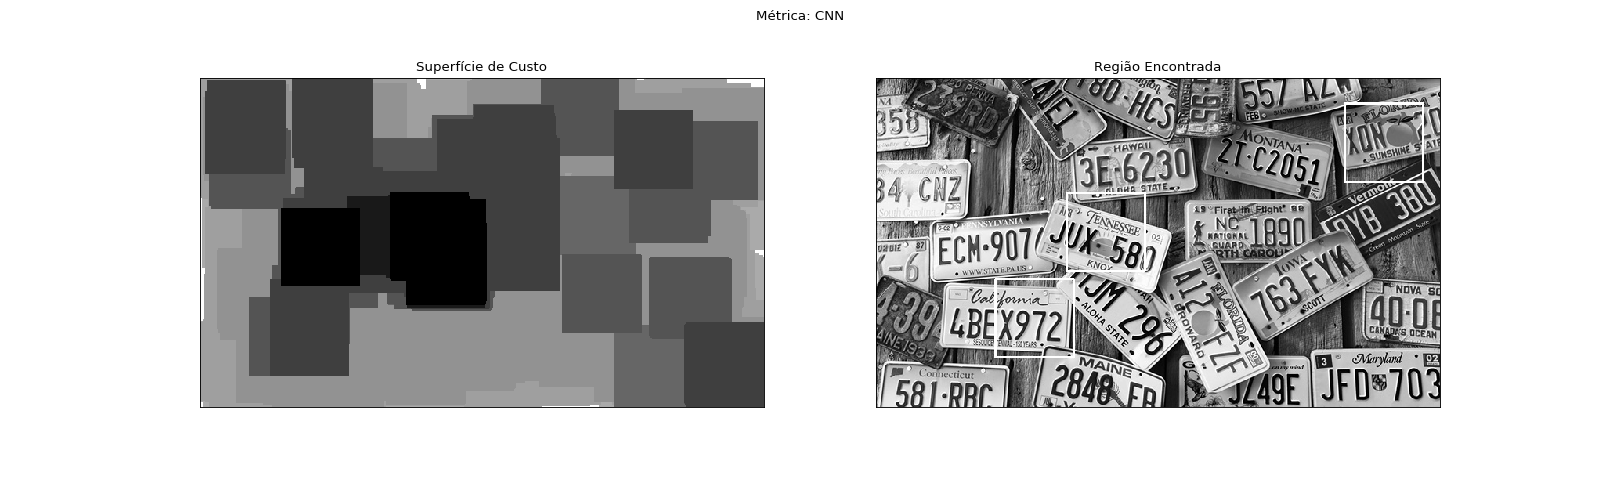
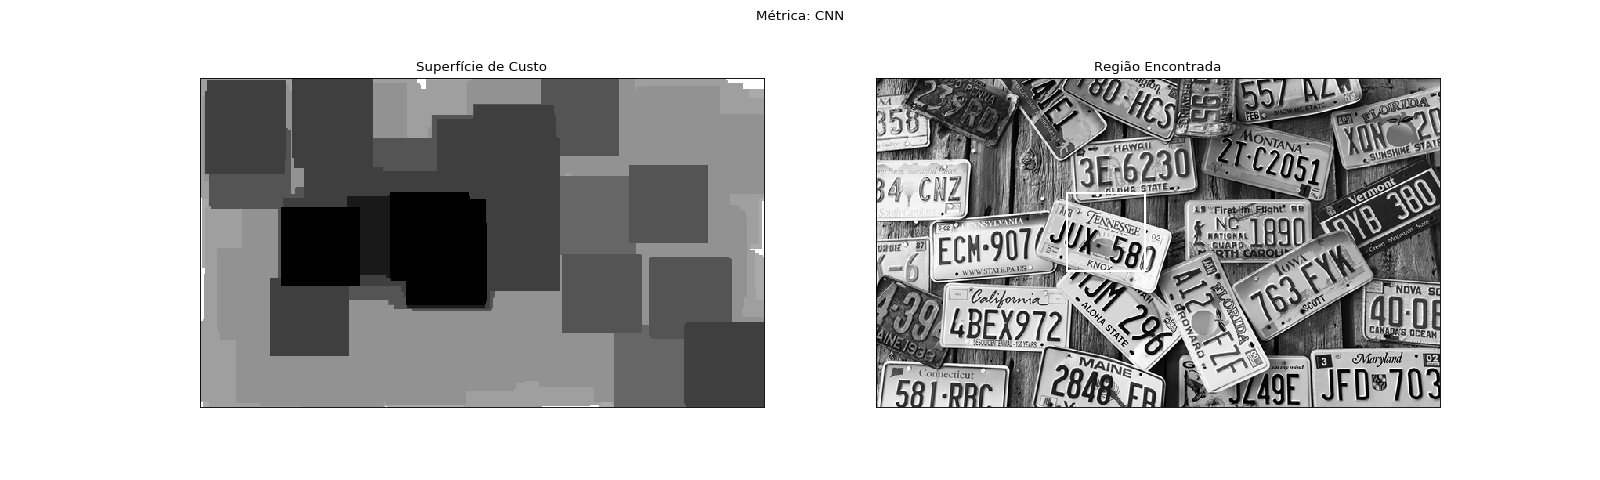
finaliza atividade 1

diff --git a/ap1/rotate.py b/ap1/rotate.py
@@ -1,0 +1,59 @@
+#!/usr/bin/env python3
+# -*- coding: utf-8 -*-
+"""
+Created on Sun Apr  3 09:11:37 2022
+
+@author: jose
+"""
+
+import numpy as np
+import math
+import cv2
+from matplotlib import pyplot as plt
+
+def rotate_image(image, angle):
+    image_center = tuple(np.array(image.shape[1::-1]) / 2)
+    rot_mat = cv2.getRotationMatrix2D(image_center, angle, 1.0)
+    result = cv2.warpAffine(image, rot_mat, image.shape[1::-1], flags=cv2.INTER_LINEAR)
+    return result
+
+def compute_skew(src_img):
+
+    if len(src_img.shape) == 3:
+        h, w, _ = src_img.shape
+    elif len(src_img.shape) == 2:
+        h, w = src_img.shape
+    else:
+        print('upsupported image type')
+
+    img = cv2.medianBlur(src_img, 3)
+
+    edges = cv2.Canny(img,  threshold1 = 30,  threshold2 = 100, apertureSize = 3, L2gradient = True)
+    lines = cv2.HoughLinesP(edges, 1, math.pi/180, 30, minLineLength=w / 4.0, maxLineGap=h/4.0)
+    angle = 0.0
+    nlines = lines.size
+
+    #print(nlines)
+    cnt = 0
+    for x1, y1, x2, y2 in lines[0]:
+        ang = np.arctan2(y2 - y1, x2 - x1)
+        #print(ang)
+        if math.fabs(ang) <= 30: # excluding extreme rotations
+            angle += ang
+            cnt += 1
+
+    if cnt == 0:
+        return 0.0
+    return (angle / cnt)*180/math.pi
+
+def deskew(src_img):
+    return rotate_image(src_img, compute_skew(src_img))
+
+import cv2
+img = cv2.imread('samples/target3.png')
+corrected_img = deskew(img)
+
+# plot
+plt.figure(figsize = (20, 6), dpi = 80)
+plt.subplot(121),plt.imshow(corrected_img, cmap = 'gray')
+plt.title(''), plt.xticks([]), plt.yticks([])

diff --git a/ap1/ex2.py b/ap1/ex2.py
@@ -21,20 +21,20 @@ def similar(a, b):
 
 norma = 'CNN'
 
-targets = ['4BEX972', '1890', 'JUX580', '763FYK']
+targets = ['JUX580', '763FYK']
 # target = 'JUX580'
 
 for target in targets:
     img = cv.imread('placas.jpg', 0)
-    template = np.zeros(shape = (100, 100), dtype = np.int8)
+    template = np.zeros(shape = (125, 175), dtype = np.int8)
 
     W, H = img.shape[::-1]
     w, h = template.shape[::-1]
 
     img = np.array(img, dtype = np.int8)
-    cost = np.ones(shape = img.shape) * 1e6
+    cost = np.ones(shape = img.shape)
 
-    minimo = 1e6
+    minimo = 1
     best = None
     print(target)
     for i in tqdm(range(H - h + 1)):
@@ -71,7 +71,8 @@ for target in targets:
     cv.rectangle(img, top_left, bottom_right, 255, 2)
 
     # cost
-    cost *= (255.0/cost.max())
+    # cost *= (255.0/cost.max())
+    cost *= (255.0)
     cost = np.array(cost, dtype = np.uint8)
 
     # plot

diff --git a/ap1/read.py b/ap1/read.py
@@ -1,0 +1,15 @@
+#!/usr/bin/env python3
+# -*- coding: utf-8 -*-
+"""
+Created on Sun Apr  3 18:01:14 2022
+
+@author: jose
+"""
+
+import cv2 as cv
+import numpy as np
+from matplotlib import pyplot as plt
+
+img = cv.imread('placas.jpg', 0)
+target = 'samples/target3.png'
+template = cv.imread(target, 0)
